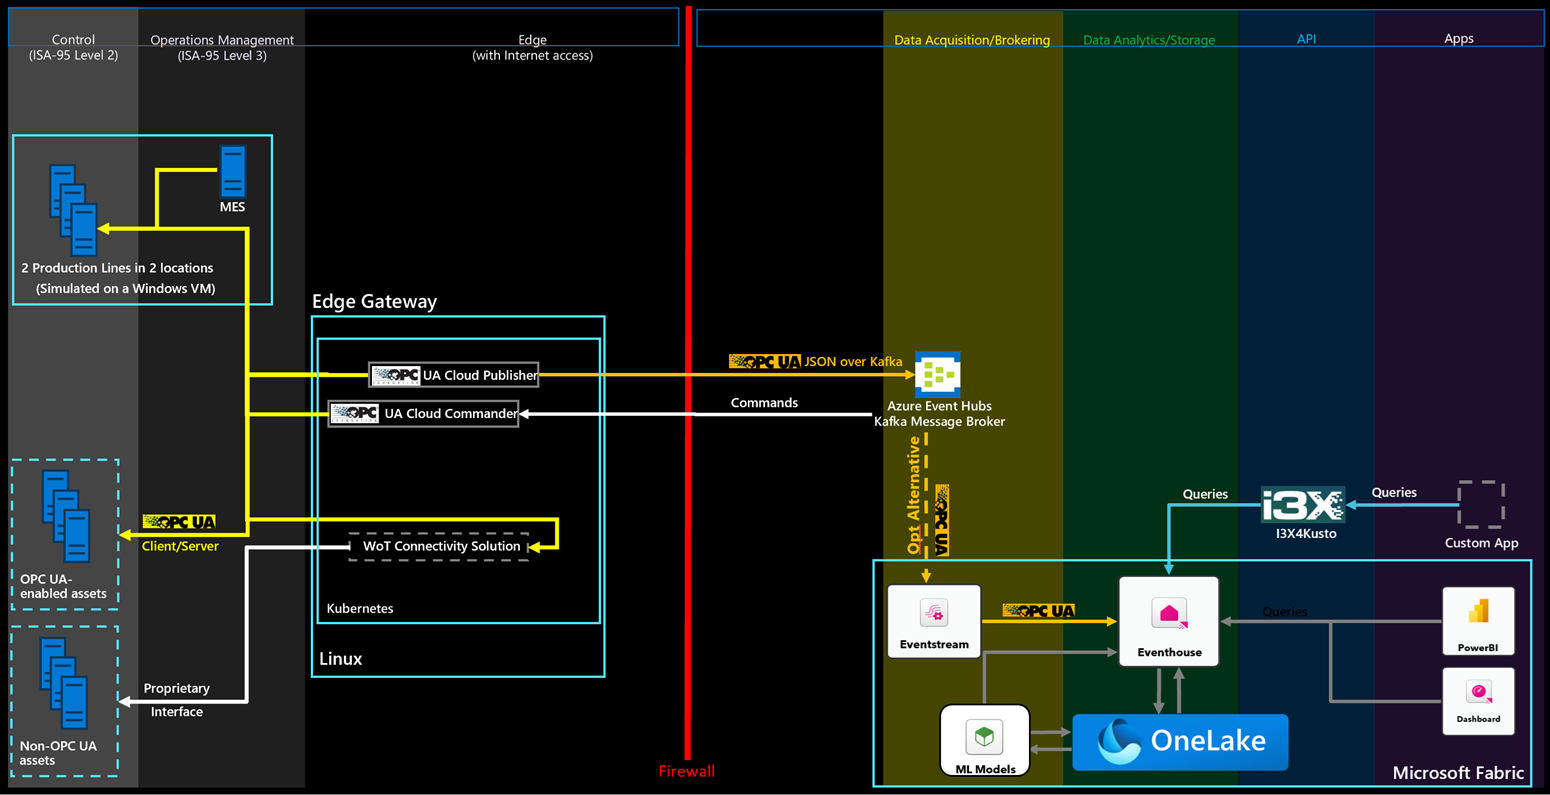
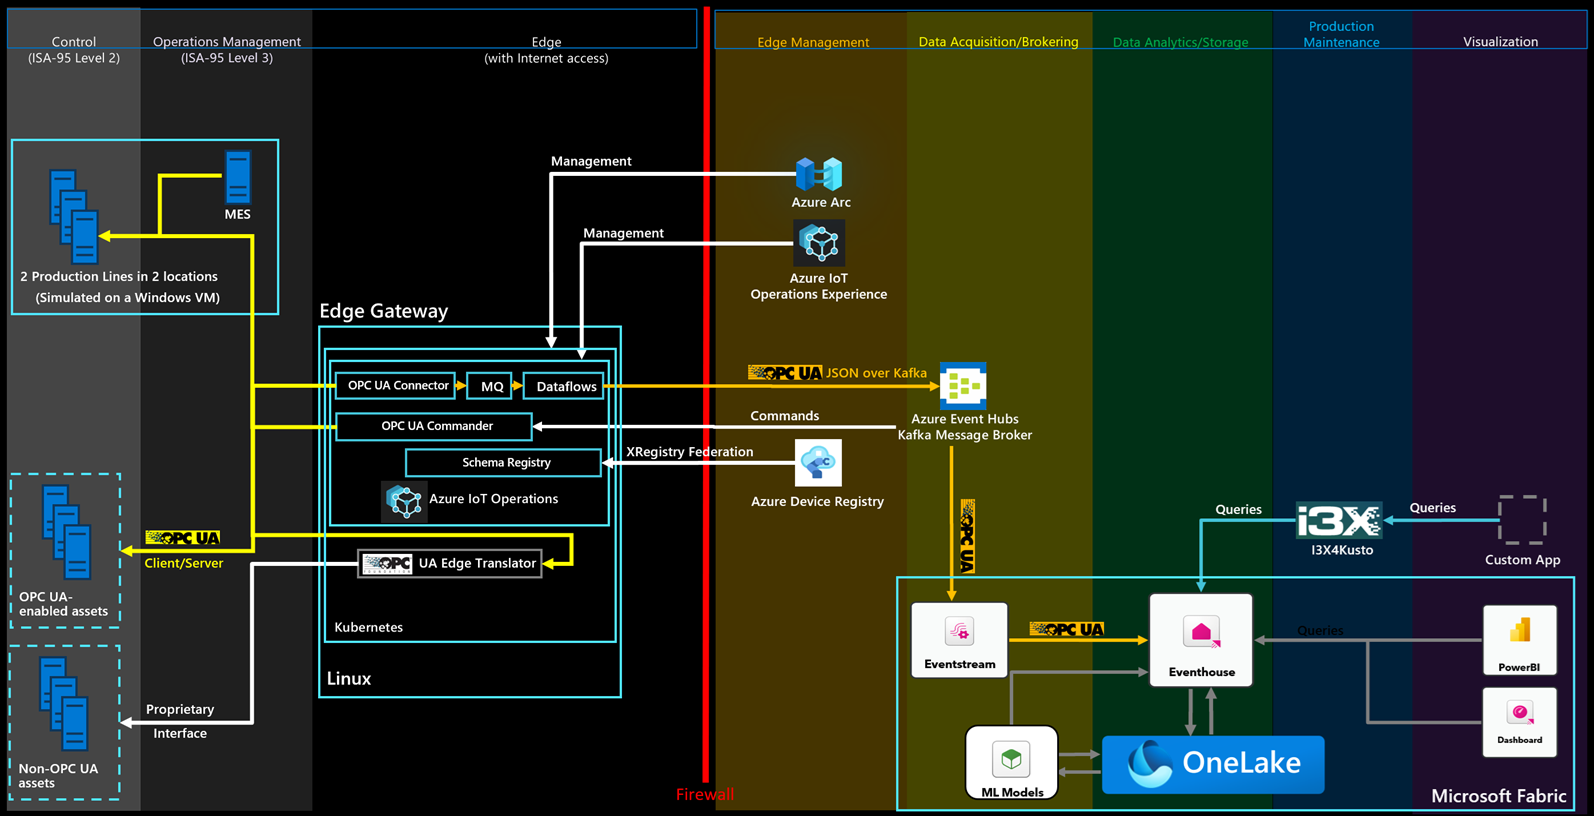
update arch diagrams.

Changed region(s): [[0.0, 0.0, 1.0, 1.0]]

diff --git a/README.md b/README.md
@@ -17,8 +17,6 @@ The solution must be as efficient as possible and enable all required use cases 
 
 Interoperability is the key enabler for these requirements. The use of open standards such as OPC UA significantly helps to achieve this interoperability, which lead to the establishment of the [OPC Foundation Cloud Initiative](https://opcfoundation.org/cloud). This OPC UA Reference Solution is Microsoft's implementation of the Cloud Initiative's reference architecture.
 
-![Architecture diagram of the OPC UA reference solution](Docs/arch.png)
-
 The following articles describe how to deploy this reference solution as well as how to connect it to various Microsoft services:
 
 - [Connect Azure Data Explorer to the reference solution](adx.md) describes the end-to-end industrial IoT reference solution that uses Azure Data Explorer to store and analyze OPC UA telemetry for use cases such as condition monitoring, OEE calculation, and anomaly detection.

diff --git a/adx.md b/adx.md
@@ -1,6 +1,8 @@
 
 # Connect Azure Data Explorer to the Reference Solution
 
+![Architecture diagram of the reference solution](Docs/arch.png)
+
 ## Automated deployment
 
 Select the **Deploy** button to deploy all required resources to your Azure subscription:

diff --git a/databricks.md b/databricks.md
@@ -1,5 +1,7 @@
 # Connect Azure Databricks to the Reference Solution
 
+![Architecture diagram of the reference solution](Docs/arch.png)
+
 ## Automated deployment
 
 The reference solution's deployment script can automatically deploy and configure Azure Databricks for you, as a **second analytics option next to Azure Data Explorer**. To enable Databricks, set the **Deploy Databricks** (`deployDatabricks`) parameter to `true`. ADX remains the default and is unaffected: Databricks reads the same `data` and `metadata` event hubs through a separate `databricks` consumer group, so both databases ingest the data side by side.

diff --git a/fabric.md b/fabric.md
@@ -2,7 +2,7 @@
 
 [Microsoft Fabric](https://learn.microsoft.com/en-us/fabric/get-started/microsoft-fabric-overview) is an all-in-one analytics solution that covers everything from data movement to data science, analytics, and business intelligence. It offers a comprehensive suite of services, including data lake, data engineering, and data integration, all in one place. You don't even need an Azure subscription for it, let alone deploy or manage any apps or services. You can get started with Microsoft Fabric [here](https://learn.microsoft.com/en-us/fabric/get-started/fabric-trial).
 
-![Architecture diagram of the industrial IoT reference solution](Docs/fabric.png)
+![Architecture diagram of the reference solution](Docs/fabric.png)
 
 ## Automated deployment
 

diff --git a/fieldservice.md b/fieldservice.md
@@ -1,5 +1,7 @@
 # Connect Microsoft Dynamics 365 Field Service to the Reference Solution
 
+![Architecture diagram of the reference solution](Docs/fieldservice.png)
+
 This integration showcases the following scenarios:
 
 - Upload assets from the manufacturing ontologies solution to Dynamics 365 Field Service.

diff --git a/grafana.md b/grafana.md
@@ -2,6 +2,8 @@
 
 You can use Azure Managed Grafana to create a dashboard on Azure for the solution described in this article. Use Grafana within manufacturing to create dashboards that display real-time data. The following steps show you how to enable Grafana on Azure and create a dashboard with the simulated production line data from Azure Data Explorer.
 
+![Architecture diagram of the reference solution](Docs/grafana.png)
+
 ## Enable the Azure Managed Grafana service
 
 To create an Azure Managed Grafana service and configure it with permissions to access the ontologies database: